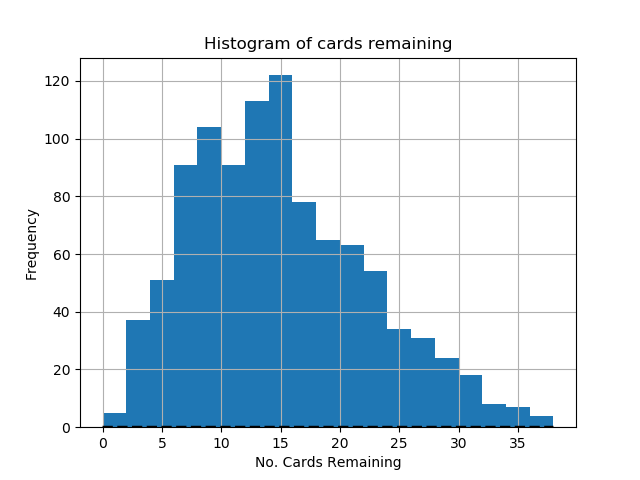
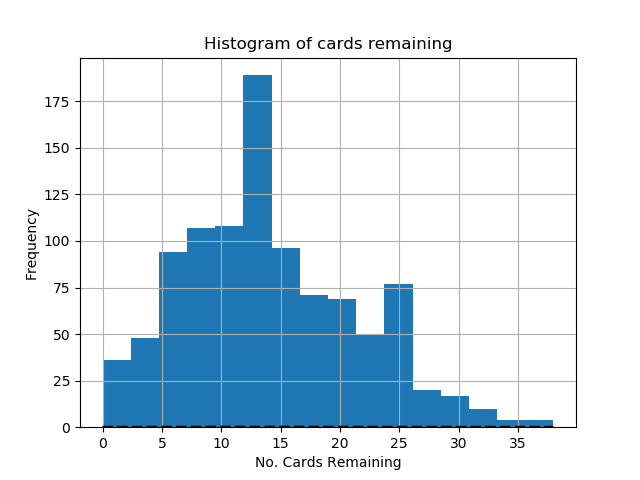
best fit

diff --git a/p5.py b/p5.py
@@ -74,10 +74,11 @@ print( "Sample standard deviation of remaining cards: ", stdev(rem) )
 #(mu, sigma) = norm.fit(rem)
 
 n, bins, patches = plt.hist(rem, bins='auto')
-y = mlab.normpdf(bins, mean(rem), stdev(rem)**2)
+#y = mlab.normpdf(bins, mean(rem), stdev(rem)**2)
+pdf_x = np.linspace(np.min(rem), np.max(rem), 100)
+pdf_y = 1.0/np.sqrt(2*np.pi*(stdev(rem)**2))*np.exp(-0.5*(pdf_x-mean(rem))**2/stdev(rem)**2)
 
-
-plt.plot(bins, y, 'k--', linewidth=2)
+plt.plot(pdf_x, pdf_y, 'k--', linewidth=2)
 
 plt.title('Histogram of cards remaining')
 plt.xlabel('No. Cards Remaining')
